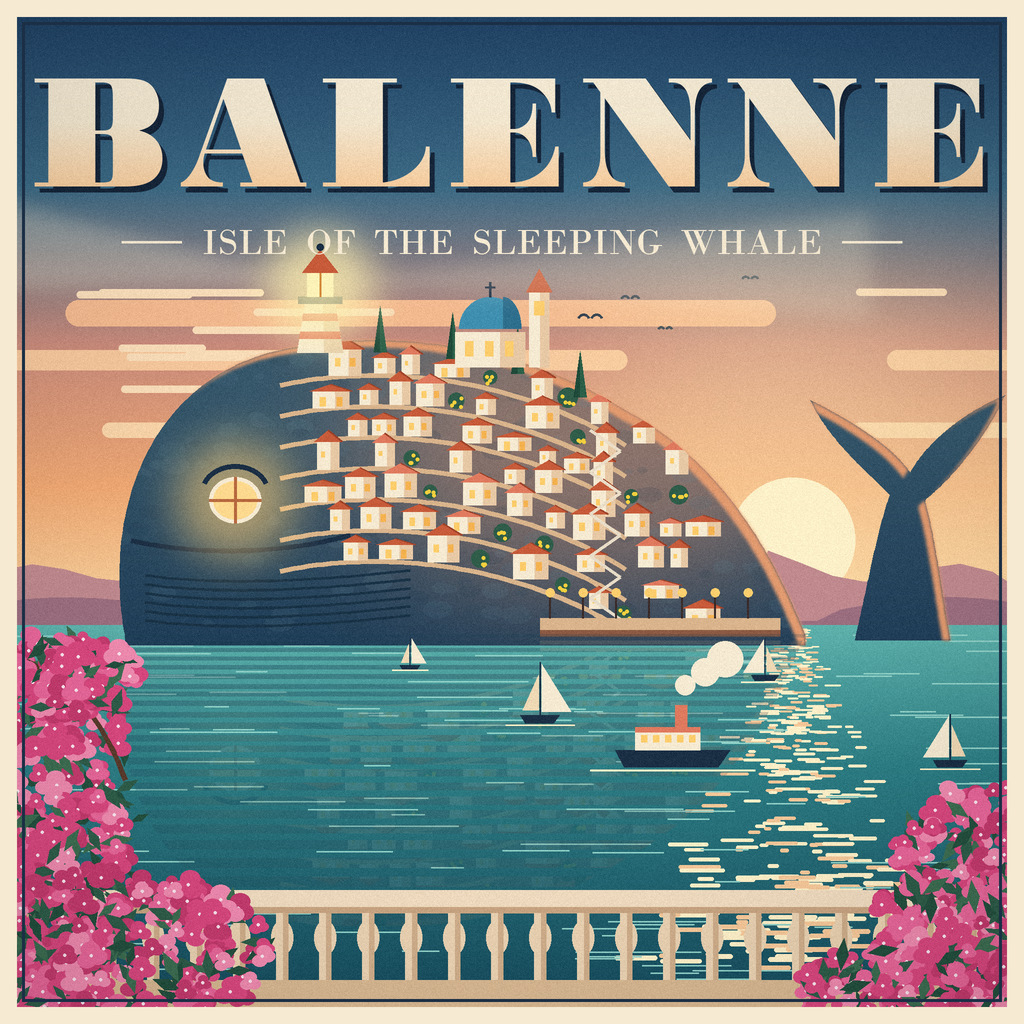
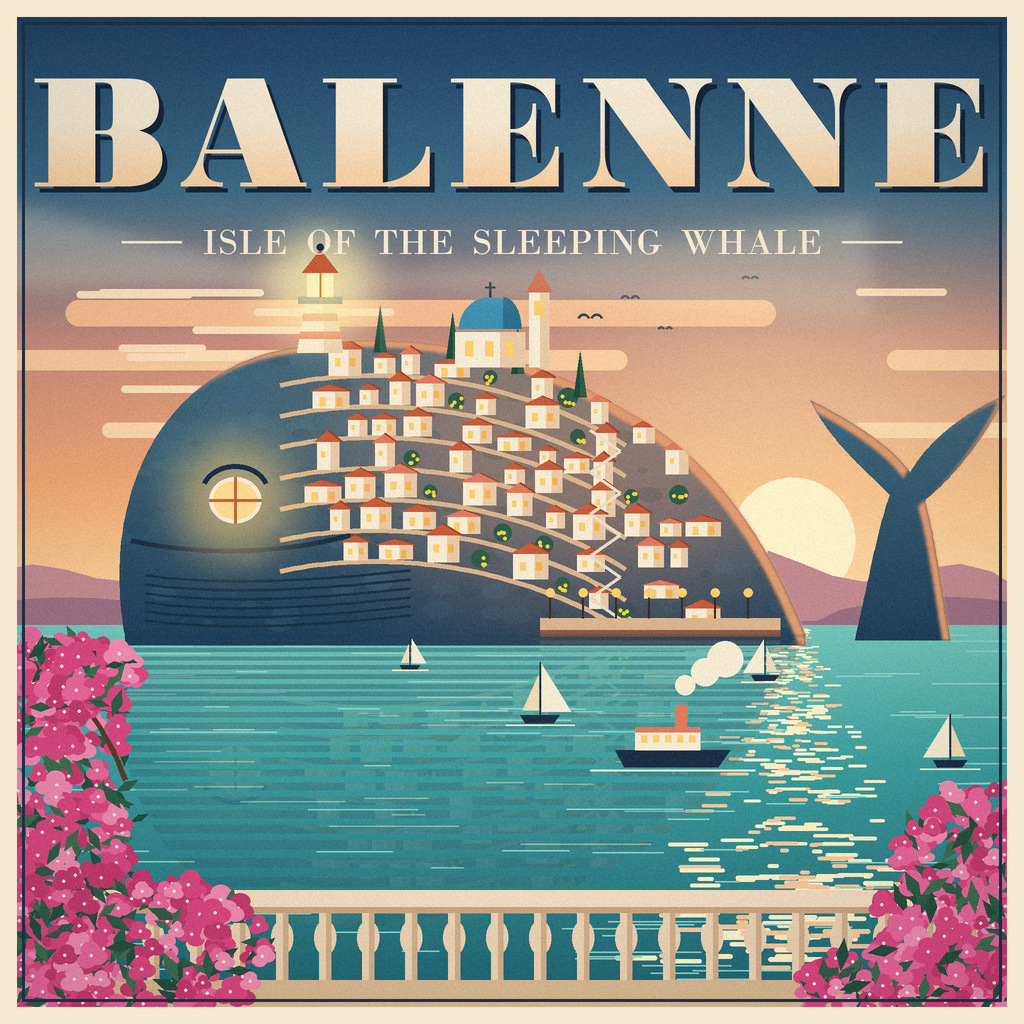
Balenne v2b: brighter lagoon and stone

Changed region(s): [[0.0938, 0.625, 1.0, 0.9688], [0.75, 0.9062, 0.8125, 0.9375], [0.9062, 0.8125, 0.9375, 0.8438]]

diff --git a/render.py b/render.py
@@ -74,7 +74,7 @@ CREAM = "#f6ead2"
 CORAL = "#e07a5f"
 TERRA = "#c75b3a"
 SUN = "#fff1c9"
-STONE = "#35566a"
+STONE = "#3e6478"
 STONE_LIT = "#e29a6f"
 LEAF = "#2f5d4a"
 BOUG = "#d9487f"
@@ -140,7 +140,7 @@ def mountains(img):
 
 
 def sea(img, sun_x):
-    g = vgrad(S, S - HZ, [(0, "#5fb3ad"), (0.35, TEAL), (1.0, "#15475a")])
+    g = vgrad(S, S - HZ, [(0, "#74c6bb"), (0.35, "#3d9e9e"), (1.0, "#1d5e6d")])
     img.paste(g, (0, HZ))
     d = ImageDraw.Draw(img)
     # glitter path below the sun, widening toward the viewer
